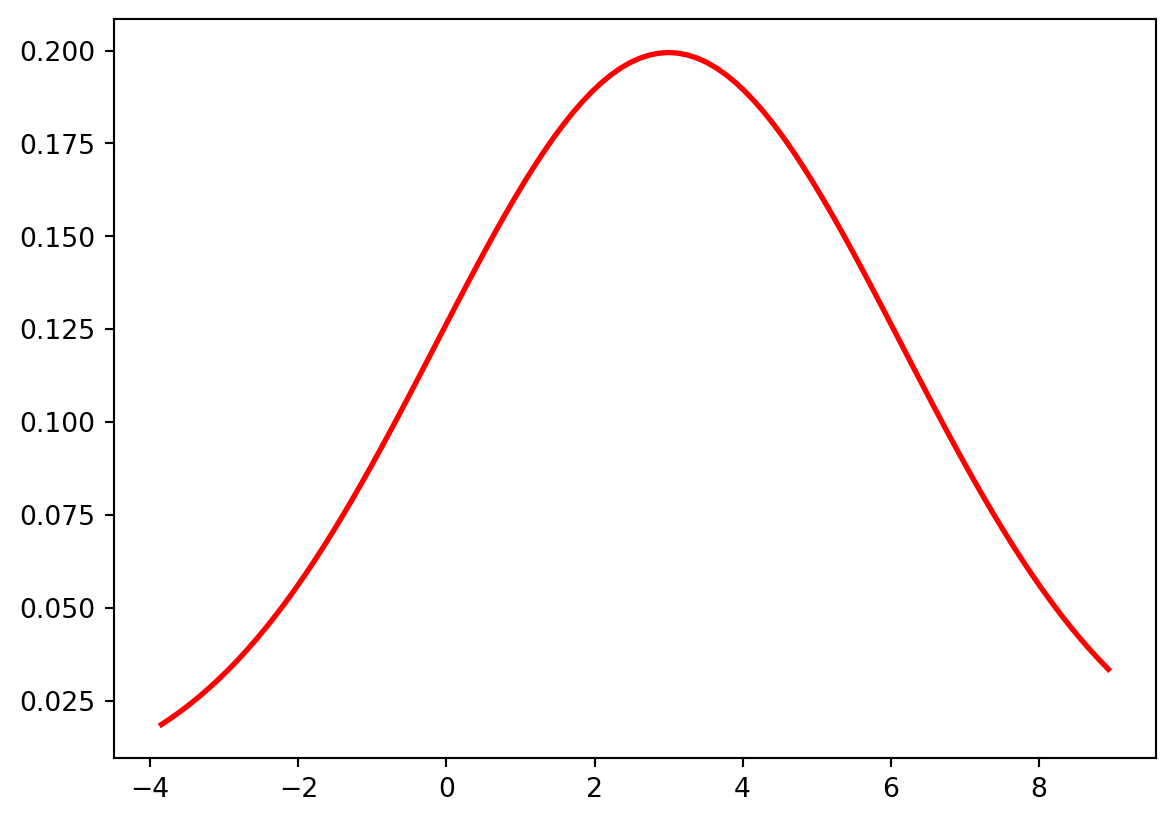
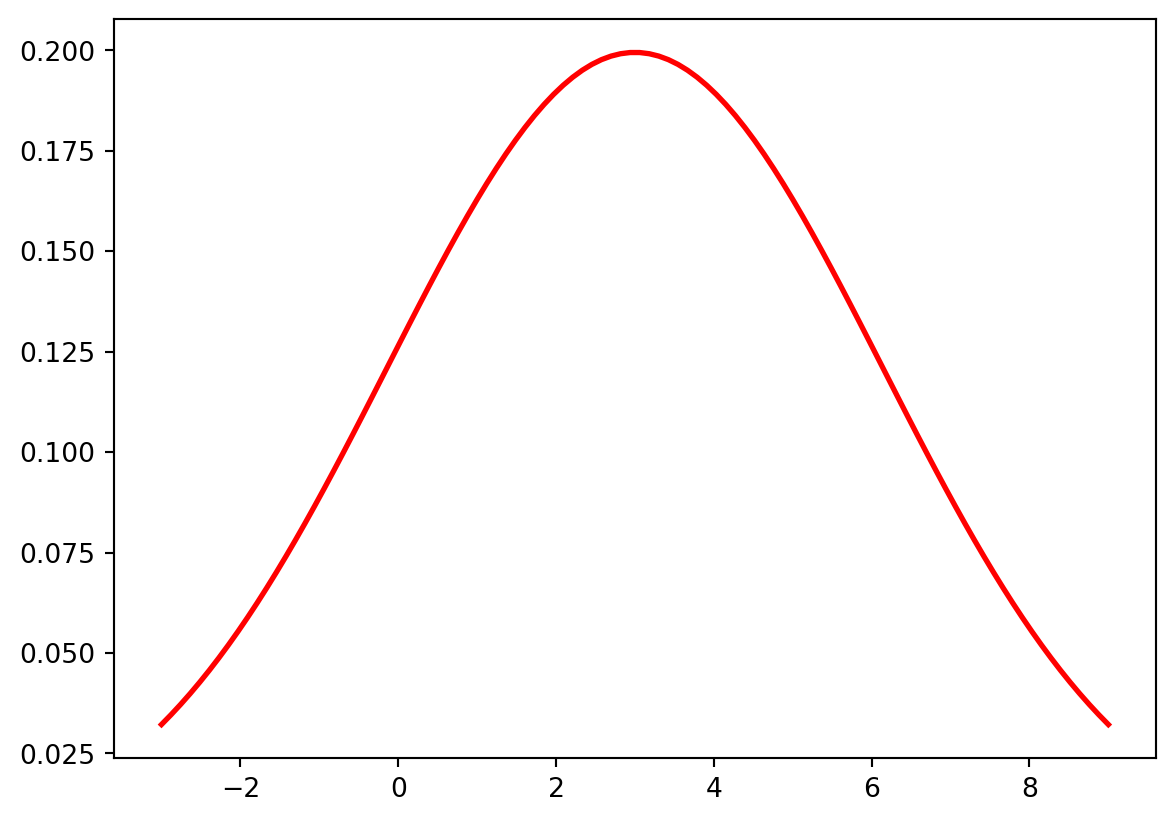
linspace 구간 변경

diff --git a/docs/posts/hw3/index.html b/docs/posts/hw3/index.html
@@ -202,7 +202,7 @@ pre > code.sourceCode > span > a:first-child::before { text-decoration: underlin
 
 <section id="정규분포-pdf값을-계산하는-자신만의-파이썬-함수를-정의하고정규분포-mu3-sigma2의-pdf를-그릴-것" class="level1">
 <h1>1. 정규분포 pdf값을 계산하는 자신만의 파이썬 함수를 정의하고,정규분포 mu=3, sigma=2의 pdf를 그릴 것</h1>
-<div id="bf2a65ff" class="cell" data-execution_count="1">
+<div id="eae2014d" class="cell" data-execution_count="1">
 <div class="sourceCode cell-code" id="cb1"><pre class="sourceCode python code-with-copy"><code class="sourceCode python"><span id="cb1-1"><a href="#cb1-1" aria-hidden="true" tabindex="-1"></a><span class="co"># X ~ N(3,2)</span></span>
 <span id="cb1-2"><a href="#cb1-2" aria-hidden="true" tabindex="-1"></a></span>
 <span id="cb1-3"><a href="#cb1-3" aria-hidden="true" tabindex="-1"></a><span class="kw">def</span> npdf(x, mu,sigma):</span>
@@ -216,13 +216,11 @@ pre > code.sourceCode > span > a:first-child::before { text-decoration: underlin
 <span id="cb1-11"><a href="#cb1-11" aria-hidden="true" tabindex="-1"></a><span class="im">import</span> matplotlib.pyplot <span class="im">as</span> plt</span>
 <span id="cb1-12"><a href="#cb1-12" aria-hidden="true" tabindex="-1"></a><span class="im">from</span> scipy.stats <span class="im">import</span> norm</span>
 <span id="cb1-13"><a href="#cb1-13" aria-hidden="true" tabindex="-1"></a></span>
-<span id="cb1-14"><a href="#cb1-14" aria-hidden="true" tabindex="-1"></a>x<span class="op">=</span> norm.rvs(loc<span class="op">=</span><span class="dv">3</span>, scale<span class="op">=</span><span class="dv">2</span>, size <span class="op">=</span> <span class="dv">1000</span>)</span>
-<span id="cb1-15"><a href="#cb1-15" aria-hidden="true" tabindex="-1"></a>x_min, x_max <span class="op">=</span> (<span class="bu">min</span>(x),<span class="bu">max</span>(x))</span>
-<span id="cb1-16"><a href="#cb1-16" aria-hidden="true" tabindex="-1"></a>x_values <span class="op">=</span> np.linspace(x_min,x_max,<span class="dv">100</span>)</span>
-<span id="cb1-17"><a href="#cb1-17" aria-hidden="true" tabindex="-1"></a>pdf_values <span class="op">=</span> npdf(x_values,<span class="dv">3</span>,<span class="dv">2</span>)</span>
-<span id="cb1-18"><a href="#cb1-18" aria-hidden="true" tabindex="-1"></a>plt.plot(x_values, pdf_values, color<span class="op">=</span><span class="st">'red'</span>, linewidth<span class="op">=</span><span class="dv">2</span>)</span>
-<span id="cb1-19"><a href="#cb1-19" aria-hidden="true" tabindex="-1"></a>plt.show()</span>
-<span id="cb1-20"><a href="#cb1-20" aria-hidden="true" tabindex="-1"></a>plt.clf()</span></code><button title="Copy to Clipboard" class="code-copy-button"><i class="bi"></i></button></pre></div>
+<span id="cb1-14"><a href="#cb1-14" aria-hidden="true" tabindex="-1"></a>x_values <span class="op">=</span> np.linspace(<span class="dv">3</span><span class="op">-</span><span class="dv">3</span><span class="op">*</span><span class="dv">2</span>,<span class="dv">3</span><span class="op">+</span><span class="dv">3</span><span class="op">*</span><span class="dv">2</span>,<span class="dv">100</span>)</span>
+<span id="cb1-15"><a href="#cb1-15" aria-hidden="true" tabindex="-1"></a>pdf_values <span class="op">=</span> npdf(x_values,<span class="dv">3</span>,<span class="dv">2</span>)</span>
+<span id="cb1-16"><a href="#cb1-16" aria-hidden="true" tabindex="-1"></a>plt.plot(x_values, pdf_values, color<span class="op">=</span><span class="st">'red'</span>, linewidth<span class="op">=</span><span class="dv">2</span>)</span>
+<span id="cb1-17"><a href="#cb1-17" aria-hidden="true" tabindex="-1"></a>plt.show()</span>
+<span id="cb1-18"><a href="#cb1-18" aria-hidden="true" tabindex="-1"></a>plt.clf()</span></code><button title="Copy to Clipboard" class="code-copy-button"><i class="bi"></i></button></pre></div>
 <div class="cell-output cell-output-display">
 <div>
 <figure class="figure">
@@ -243,38 +241,38 @@ pre > code.sourceCode > span > a:first-child::before { text-decoration: underlin
 </section>
 <section id="px3" class="level1">
 <h1>1) P(x&lt;3)</h1>
-<div id="bf6b2b7d" class="cell" data-execution_count="2">
+<div id="d774fa74" class="cell" data-execution_count="2">
 <div class="sourceCode cell-code" id="cb3"><pre class="sourceCode python code-with-copy"><code class="sourceCode python"><span id="cb3-1"><a href="#cb3-1" aria-hidden="true" tabindex="-1"></a>norm.cdf(<span class="dv">3</span>,loc<span class="op">=</span><span class="dv">2</span>, scale<span class="op">=</span><span class="dv">3</span>)</span></code><button title="Copy to Clipboard" class="code-copy-button"><i class="bi"></i></button></pre></div>
-<div class="cell-output cell-output-display" data-execution_count="13">
+<div class="cell-output cell-output-display" data-execution_count="22">
 <pre><code>np.float64(0.6305586598182363)</code></pre>
 </div>
 </div>
 </section>
 <section id="p2x5" class="level1">
 <h1>2) P(2&lt;x&lt;5)</h1>
-<div id="d4a3fc9b" class="cell" data-execution_count="3">
+<div id="4d750e97" class="cell" data-execution_count="3">
 <div class="sourceCode cell-code" id="cb5"><pre class="sourceCode python code-with-copy"><code class="sourceCode python"><span id="cb5-1"><a href="#cb5-1" aria-hidden="true" tabindex="-1"></a>norm.cdf(<span class="dv">5</span>,loc<span class="op">=</span><span class="dv">2</span>,scale<span class="op">=</span><span class="dv">3</span>) <span class="op">-</span> norm.cdf(<span class="dv">2</span>,<span class="dv">2</span>,<span class="dv">3</span>)</span></code><button title="Copy to Clipboard" class="code-copy-button"><i class="bi"></i></button></pre></div>
-<div class="cell-output cell-output-display" data-execution_count="14">
+<div class="cell-output cell-output-display" data-execution_count="23">
 <pre><code>np.float64(0.3413447460685429)</code></pre>
 </div>
 </div>
 </section>
 <section id="px3-or-x7" class="level1">
 <h1>3) P(x&lt;3 or x&gt;7)</h1>
-<div id="23fa9f98" class="cell" data-execution_count="4">
+<div id="cea9465f" class="cell" data-execution_count="4">
 <div class="sourceCode cell-code" id="cb7"><pre class="sourceCode python code-with-copy"><code class="sourceCode python"><span id="cb7-1"><a href="#cb7-1" aria-hidden="true" tabindex="-1"></a>norm.cdf(<span class="dv">3</span>,<span class="dv">2</span>,<span class="dv">3</span>) <span class="op">+</span> <span class="dv">1</span> <span class="op">-</span> norm.cdf(<span class="dv">7</span>,<span class="dv">2</span>,<span class="dv">3</span>)</span></code><button title="Copy to Clipboard" class="code-copy-button"><i class="bi"></i></button></pre></div>
-<div class="cell-output cell-output-display" data-execution_count="15">
+<div class="cell-output cell-output-display" data-execution_count="24">
 <pre><code>np.float64(0.6783490120910509)</code></pre>
 </div>
 </div>
 </section>
 <section id="ls-빅데이터-스쿨-학생들의-중간고사-점수는-평균-30이고-분산이-4인-정규분포를-따른다.-상위-5에-해당하는-학생의-점수는" class="level1">
 <h1>3. LS 빅데이터 스쿨 학생들의 중간고사 점수는 평균 30이고, 분산이 4인 정규분포를 따른다. 상위 5%에 해당하는 학생의 점수는?</h1>
-<div id="e9e8fa01" class="cell" data-execution_count="5">
+<div id="06cb0be5" class="cell" data-execution_count="5">
 <div class="sourceCode cell-code" id="cb9"><pre class="sourceCode python code-with-copy"><code class="sourceCode python"><span id="cb9-1"><a href="#cb9-1" aria-hidden="true" tabindex="-1"></a><span class="co"># X ~ N(30, 4=2^2) </span></span>
 <span id="cb9-2"><a href="#cb9-2" aria-hidden="true" tabindex="-1"></a><span class="co"># P(x &gt;= 0.95)</span></span>
 <span id="cb9-3"><a href="#cb9-3" aria-hidden="true" tabindex="-1"></a>norm.ppf(<span class="fl">0.95</span>, <span class="dv">30</span>, <span class="dv">2</span>)</span></code><button title="Copy to Clipboard" class="code-copy-button"><i class="bi"></i></button></pre></div>
-<div class="cell-output cell-output-display" data-execution_count="16">
+<div class="cell-output cell-output-display" data-execution_count="25">
 <pre><code>np.float64(33.28970725390295)</code></pre>
 </div>
 </div>

diff --git a/docs/blog.html b/docs/blog.html
@@ -202,7 +202,7 @@ window.Quarto = {
 
 <div class="quarto-listing quarto-listing-container-default" id="listing-listing">
 <div class="list quarto-listing-default">
-<div class="quarto-post image-right" data-index="0" data-categories="bigdata" data-listing-date-sort="1721833200000" data-listing-file-modified-sort="1721909227571" data-listing-date-modified-sort="NaN" data-listing-reading-time-sort="1" data-listing-word-count-sort="122">
+<div class="quarto-post image-right" data-index="0" data-categories="bigdata" data-listing-date-sort="1721833200000" data-listing-file-modified-sort="1721948982270" data-listing-date-modified-sort="NaN" data-listing-reading-time-sort="1" data-listing-word-count-sort="114">
 <div class="thumbnail">
 <p><a href="./posts/hw3/index.html" class="no-external"></a></p><a href="./posts/hw3/index.html" class="no-external">
 <p class="card-img-top"><img src="posts\hw3\index_files\figure-html\cell-2-output-1.png"  class="thumbnail-image card-img"/></p>
@@ -223,7 +223,7 @@ bigdata
 <div class="listing-description">
 <a href="./posts/hw3/index.html" class="no-external">
 
-<div id="bf2a65ff" class="cell" data-execution_count="1">
+<div id="eae2014d" class="cell" data-execution_count="1">
 <div class="sourceCode cell-code" id="cb1"><pre class="sourceCode python code-with-copy"><code class="sourceCode python"><span id="cb1-1"><span class="co"># X ~ N(3,2)</span></span>
 <span id="cb1-2"></span>
 <span id="cb1-3"><span class="kw">def</span> npdf(x, mu,sigma):</span>
@@ -231,7 +231,7 @@ bigdata
 <span id="cb1-5">    part1 <span class="op">=</span> <span class="dv">1</span> <span class="op">/</span> (sigma <span class="op">*</span> np.sqrt(<span class="dv">2</span> <span class="op">*</span> np.pi))</span>
 <span id="cb1-6">    part2 <span class="op">=</span> np.exp((<span class="op">-</span><span class="dv">1</span><span class="op">/</span><span class="dv">2</span>) <span class="op">*</span> ((x<span class="op">-</span>mu)<span class="op">/</span>np.pi)<span class="op">**</span><span class="dv">2</span>)</span>
 <span id="cb1-7">    y <span class="op">=</span> part1 <span class="op">*</span> part2</span>
-<span id="cb1-8"> …<span class="cf"></span></span><span id="cb1-9"></span><span id="cb1-10"><span class="im"></span><span class="im"></span></span><span id="cb1-11"><span class="im"></span><span class="im"></span></span><span id="cb1-12"><span class="im"></span><span class="im"></span></span><span id="cb1-13"></span><span id="cb1-14"><span class="op"></span><span class="op"></span><span class="dv"></span><span class="op"></span><span class="dv"></span><span class="op"></span><span class="dv"></span></span><span id="cb1-15"><span class="op"></span><span class="bu"></span><span class="bu"></span></span><span id="cb1-16"><span class="op"></span><span class="dv"></span></span><span id="cb1-17"><span class="op"></span><span class="dv"></span><span class="dv"></span></span><span id="cb1-18"><span class="op"></span><span class="st"></span><span class="op"></span><span class="dv"></span></span><span id="cb1-19"></span><span id="cb1-20"></span></code></pre></div><div class="cell-output cell-output-display"><div><figure class="figure"><p></p></figure></div></div><div class="cell-output cell-output-display"><pre><code></code></pre></div></div></a>
+<span id="cb1-8"> …<span class="cf"></span></span><span id="cb1-9"></span><span id="cb1-10"><span class="im"></span><span class="im"></span></span><span id="cb1-11"><span class="im"></span><span class="im"></span></span><span id="cb1-12"><span class="im"></span><span class="im"></span></span><span id="cb1-13"></span><span id="cb1-14"><span class="op"></span><span class="dv"></span><span class="op"></span><span class="dv"></span><span class="op"></span><span class="dv"></span><span class="dv"></span><span class="op"></span><span class="dv"></span><span class="op"></span><span class="dv"></span><span class="dv"></span></span><span id="cb1-15"><span class="op"></span><span class="dv"></span><span class="dv"></span></span><span id="cb1-16"><span class="op"></span><span class="st"></span><span class="op"></span><span class="dv"></span></span><span id="cb1-17"></span><span id="cb1-18"></span></code></pre></div><div class="cell-output cell-output-display"><div><figure class="figure"><p></p></figure></div></div><div class="cell-output cell-output-display"><pre><code></code></pre></div></div></a>
 </div>
 </div>
 <div class="metadata">
